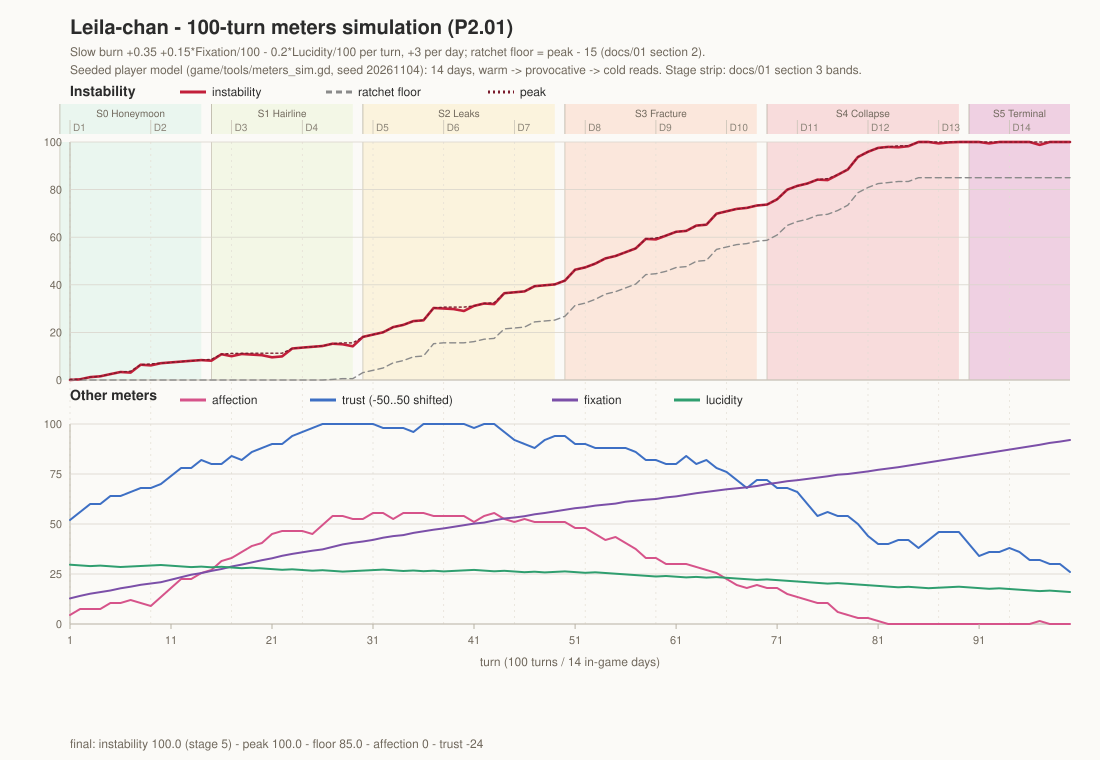
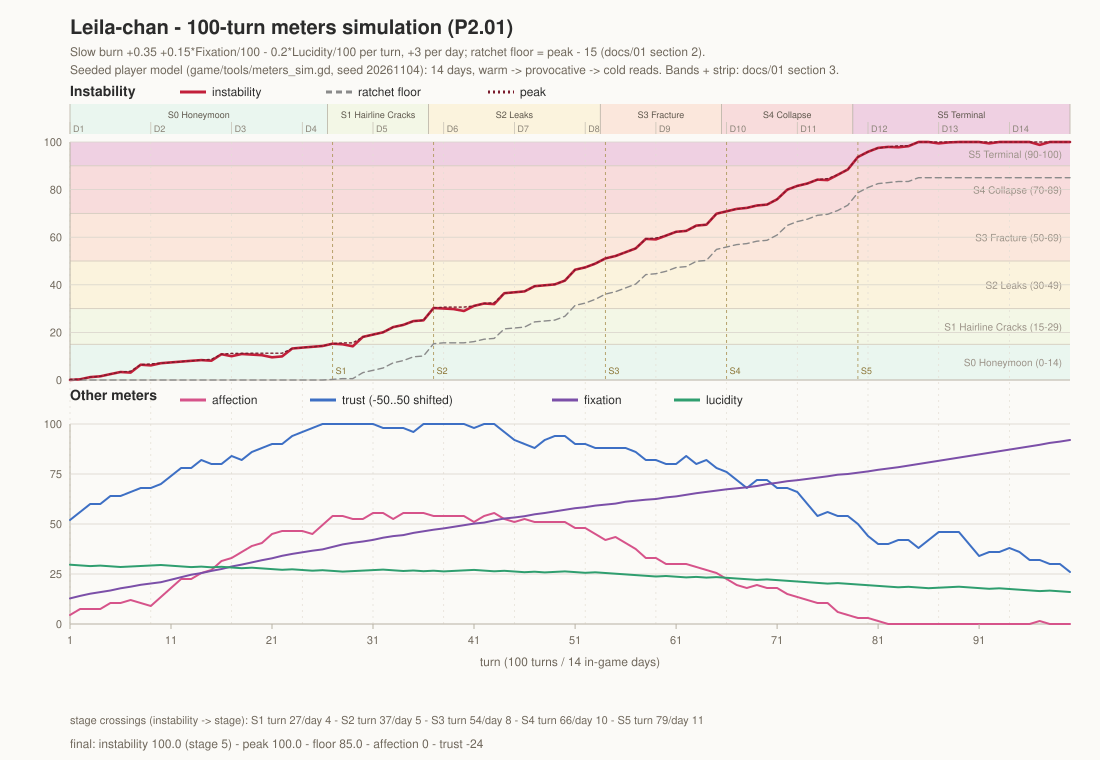
P2.01: draw the docs/01 section 3 stage bands on the instability axis (DES-1)
The bands are instability values, not turns: shade the Instability panel's
y axis with one full-width stripe per band, label each stripe with its range,
and turn the strip above the panel into the stage the CSV is actually in per
turn (labelled runs + day ticks). Stage crossings are marked and captioned
with their turn and day, so the artifact agrees with the CSV (S5 at turn 79,
day 11). test_meters.py now renders the plot and pins the band geometry and
the strip spans to the CSV.

diff --git a/tools/meters/plot.py b/tools/meters/plot.py
@@ -8,9 +8,15 @@ plain text and diffable, and the PNG is a convenience render of the same file.
     python3 tools/meters/plot.py production/handoffs/media/P2.01/meters_curve.csv \
         production/handoffs/media/P2.01/meters_curve.svg
 
-Panel 1: Instability with the docs/01 §2 ratchet floor (peak - 15) and the peak,
-over the docs/01 §3 stage bands. Panel 2: Affection, Trust (mapped from its
--50..+50 range), Fixation and Lucidity.
+Axis meanings: the x axis is turns; the Instability panel's y axis is the meter
+value. The docs/01 §3 stage bands are instability ranges, so they shade that
+panel's y axis (a horizontal stripe per band, labelled with its range), and the
+strip above it is the stage the CSV is actually in on each turn. Stage
+crossings are marked with their turn and in-game day, read from the CSV.
+
+Panel 1: Instability with the docs/01 §2 ratchet floor (peak - 15) and the peak.
+Panel 2: Affection, Trust (mapped from its -50..+50 range), Fixation and
+Lucidity.
 """
 
 from __future__ import annotations
@@ -36,9 +42,11 @@ BG = "#fbfaf7"
 INK = "#2b2b2b"
 GRID = "#d9d5cc"
 
+## docs/01 §3, verbatim: (lo, hi, name, fill). The numbers are Instability
+## values, never turns — the Instability panel's y axis carries them.
 STAGES = [
     (0, 14, "S0 Honeymoon", "#eaf6ef"),
-    (15, 29, "S1 Hairline", "#f3f7e6"),
+    (15, 29, "S1 Hairline Cracks", "#f3f7e6"),
     (30, 49, "S2 Leaks", "#fbf3dd"),
     (50, 69, "S3 Fracture", "#fbe7dc"),
     (70, 89, "S4 Collapse", "#f8dcdc"),
@@ -116,28 +124,69 @@ def y_for(value: float, top: float, height: float, lo: float = 0.0, hi: float = 
     return top + height - (value - lo) / (hi - lo) * height
 
 
-def draw_stage_bands(svg: Svg, rows: list[dict], x, top: float, height: float) -> None:
-    turns = [num(r, "turn") for r in rows]
-    for lo, hi, _label, fill in STAGES:
-        xs = x(lo)
-        xe = x(min(hi, max(turns)))
-        if xe <= xs:
-            continue
-        svg.rect(xs, top, xe - xs, height, fill)
-        svg.line(xs, top, xs, top + height, "#c9c3b6", 0.8)
+def draw_stage_bands(svg: Svg, top: float, height: float) -> None:
+    """docs/01 §3 bands shade the Instability axis: one horizontal stripe per range.
+
+    The band edges are meter values, so each stripe spans the full turn width and
+    the curve crossing a stripe edge is exactly the stage change the CSV records.
+    """
+    for index, (lo, hi, label, fill) in enumerate(STAGES):
+        # The doc table's bands are integer ranges (0-14, 15-29, ...), so the
+        # next band's floor is this band's ceiling on the continuous axis.
+        ceiling = STAGES[index + 1][0] if index + 1 < len(STAGES) else hi
+        y_hi = y_for(ceiling, top, height)
+        y_lo = y_for(lo, top, height)
+        svg.rect(LEFT, y_hi, RIGHT - LEFT, y_lo - y_hi, fill)
+        if lo > 0:
+            svg.line(LEFT, y_lo, RIGHT, y_lo, "#d5cdbe", 0.9)
+        svg.text(
+            RIGHT - 8, (y_hi + y_lo) / 2 + 4, f"{label} ({lo}-{hi})", 10, "end", "#9a9186"
+        )
+
+
+def stage_runs(rows: list[dict]) -> list[tuple[int, int, int]]:
+    """Contiguous (first_turn, last_turn, stage) runs, read from the CSV's stage column."""
+    runs: list[tuple[int, int, int]] = []
+    for row in rows:
+        turn, stage = int(num(row, "turn")), int(num(row, "stage"))
+        if runs and runs[-1][2] == stage:
+            runs[-1] = (runs[-1][0], turn, stage)
+        else:
+            runs.append((turn, turn, stage))
+    return runs
+
+
+def stage_crossings(rows: list[dict]) -> list[tuple[int, int, int]]:
+    """Turns where the CSV stage changes: (turn, day, new_stage)."""
+    crossings: list[tuple[int, int, int]] = []
+    previous = int(num(rows[0], "stage"))
+    for row in rows[1:]:
+        stage = int(num(row, "stage"))
+        if stage != previous:
+            crossings.append((int(num(row, "turn")), int(num(row, "day")), stage))
+            previous = stage
+    return crossings
 
 
 def draw_stage_strip(svg: Svg, rows: list[dict], x) -> None:
-    """docs/01 section 3 bands as a labelled strip so the lines never cross a label."""
-    turns = [num(r, "turn") for r in rows]
-    for lo, hi, label, fill in STAGES:
-        xs = x(lo)
-        xe = x(min(hi, max(turns)))
+    """The stage the run is actually in per turn, so the strip answers "when".
+
+    Each segment is one contiguous run of the CSV's `stage` column, labelled with
+    the docs/01 §3 name; the in-game day ticks under it are turn-based too.
+    """
+    for start, end, stage in stage_runs(rows):
+        xs = max(LEFT, x(start - 0.5))
+        xe = min(RIGHT, x(end + 0.5))
         if xe <= xs:
             continue
+        _lo, _hi, label, fill = STAGES[stage]
         svg.rect(xs, STRIP_TOP, xe - xs, STRIP_HEIGHT, fill)
         svg.line(xs, STRIP_TOP, xs, STRIP_TOP + STRIP_HEIGHT, "#b8b1a4", 0.8)
-        svg.text((xs + xe) / 2, STRIP_TOP + 13, label, 10, "middle", "#6f675b")
+        if xe - xs >= 84:
+            svg.text((xs + xe) / 2, STRIP_TOP + 14, label, 9, "middle", "#5d564b")
+        elif xe - xs >= 34:
+            svg.text((xs + xe) / 2, STRIP_TOP + 14, f"S{stage}", 9, "middle", "#5d564b")
+    svg.line(RIGHT, STRIP_TOP, RIGHT, STRIP_TOP + STRIP_HEIGHT, "#b8b1a4", 0.8)
     seen: set[int] = set()
     for row in rows:
         day = int(num(row, "day"))
@@ -145,8 +194,8 @@ def draw_stage_strip(svg: Svg, rows: list[dict], x) -> None:
             continue
         seen.add(day)
         px = x(num(row, "turn"))
-        svg.line(px, STRIP_TOP + 16, px, STRIP_TOP + STRIP_HEIGHT, "#c9c3b6", 0.8)
-        svg.text(px + 3, STRIP_TOP + 27, f"D{day}", 10, "start", "#8a8377")
+        svg.line(px, STRIP_TOP + 18, px, STRIP_TOP + STRIP_HEIGHT, "#c9c3b6", 0.8)
+        svg.text(px + 3, STRIP_TOP + 28, f"D{day}", 9, "start", "#8a8377")
 
 
 def draw_day_lines(svg: Svg, rows: list[dict], x, top: float, bottom: float) -> None:
@@ -196,13 +245,19 @@ def plot(rows: list[dict], out: Path) -> None:
     svg.text(
         LEFT, 74,
         "Seeded player model (game/tools/meters_sim.gd, seed 20261104): 14 days, "
-        "warm -> provocative -> cold reads.  Stage strip: docs/01 section 3 bands.",
+        "warm -> provocative -> cold reads.  Bands + strip: docs/01 section 3.",
         12, "start", "#6f675b",
     )
-    draw_stage_bands(svg, rows, x, TOP1, HEIGHT1)
+    draw_stage_bands(svg, TOP1, HEIGHT1)
     draw_stage_strip(svg, rows, x)
     draw_day_lines(svg, rows, x, TOP1, TOP2 + HEIGHT2)
     draw_axes(svg, rows, x, TOP1, HEIGHT1, 0, 100, [0, 20, 40, 60, 80, 100])
+
+    crossings = stage_crossings(rows)
+    for turn, _day, stage in crossings:
+        px = x(turn)
+        svg.line(px, TOP1, px, TOP1 + HEIGHT1, "#b09a5f", 0.9, "3 3")
+        svg.text(px + 3, TOP1 + HEIGHT1 - 6, f"S{stage}", 9, "start", "#8a7434")
 
     for key, color, width, dash in (
         ("instability", "#c21f3a", 2.6, ""),
@@ -262,6 +317,14 @@ def plot(rows: list[dict], out: Path) -> None:
     svg.text((LEFT + RIGHT) / 2, TOP2 + HEIGHT2 + 42, "turn (100 turns / 14 in-game days)",
              12, "middle", "#6f675b")
 
+    if crossings:
+        svg.text(
+            LEFT, HEIGHT - 36,
+            "stage crossings (instability -> stage): "
+            + " - ".join(f"S{stage} turn {turn}/day {day}" for turn, day, stage in crossings),
+            11, "start", "#6f675b",
+        )
+
     last_row = rows[-1]
     svg.text(
         LEFT, HEIGHT - 12,
@@ -301,6 +364,8 @@ def main(argv: list[str]) -> int:
     for row in rows:
         if num(row, "instability") < num(row, "instability_floor") - 1e-6:
             raise SystemExit(f"plot: ratchet violated at turn {row['turn']}")
+        if not 0 <= int(num(row, "stage")) < len(STAGES):
+            raise SystemExit(f"plot: stage out of range at turn {row['turn']}")
     plot(rows, target)
     print(f"plot: wrote {target} ({len(rows)} turns)")
     to_png(target)

diff --git a/tests/test_meters.py b/tests/test_meters.py
@@ -6,12 +6,15 @@ Godot build: the tuning table and production/handoffs/media/P2.01/meters_curve.*
 """
 
 import csv
+import importlib.util
 import json
+import re
 from pathlib import Path
 
 ROOT = Path(__file__).resolve().parent.parent
 METERS = json.loads((ROOT / "game" / "data" / "meters.json").read_text(encoding="utf-8"))
 CURVE = ROOT / "production" / "handoffs" / "media" / "P2.01" / "meters_curve.csv"
+PLOT_SCRIPT = ROOT / "tools" / "meters" / "plot.py"
 
 # docs/01_GAME_DESIGN.md §2 and docs/02_DIRECTOR_PROTOCOL.md §1.1, verbatim.
 DOC_RATCHET_DROP = 15.0
@@ -95,3 +98,70 @@ def test_curve_plot_artifacts_exist() -> None:
     assert svg.exists() and svg.stat().st_size > 4000
     assert "<svg" in svg.read_text(encoding="utf-8")
     assert png.exists() and png.stat().st_size > 4000
+
+
+# docs/01_GAME_DESIGN.md §3 thresholds, verbatim (0-14, 15-29, 30-49, 50-69,
+# 70-89, 90-100): on the continuous Instability axis each band runs from its
+# floor to the next band's floor.
+DOC_STAGE_EDGES = [(0, 15), (15, 30), (30, 50), (50, 70), (70, 90), (90, 100)]
+
+
+def _load_plot():
+    spec = importlib.util.spec_from_file_location("meters_plot", PLOT_SCRIPT)
+    assert spec is not None and spec.loader is not None
+    module = importlib.util.module_from_spec(spec)
+    spec.loader.exec_module(module)
+    return module
+
+
+def _svg_rects(text: str) -> list[tuple[float, float, float, float]]:
+    found = re.findall(
+        r'<rect x="([0-9.]+)" y="([0-9.]+)" width="([0-9.]+)" height="([0-9.]+)"', text
+    )
+    return [(float(x), float(y), float(w), float(h)) for x, y, w, h in found]
+
+
+def _stage_runs(rows: list[dict[str, str]]) -> list[tuple[int, int, int]]:
+    runs: list[tuple[int, int, int]] = []
+    for row in rows:
+        turn, stage = int(row["turn"]), int(row["stage"])
+        if runs and runs[-1][2] == stage:
+            runs[-1] = (runs[-1][0], turn, stage)
+        else:
+            runs.append((turn, turn, stage))
+    return runs
+
+
+def test_plot_puts_the_stage_bands_on_the_instability_axis(tmp_path: Path) -> None:
+    """docs/01 §3 bands are Instability values, never turns (P2.01 DES-1).
+
+    The Instability panel's y axis is the meter, so each band is a full-width
+    stripe whose height is the band's share of 0-100; and the strip above it
+    spans the turns the CSV is actually in that stage.
+    """
+    plot = _load_plot()
+    out = tmp_path / "meters_curve.svg"
+    plot.plot(_curve_rows(), out)
+    rects = _svg_rects(out.read_text(encoding="utf-8"))
+
+    bands = sorted(
+        (r for r in rects if r[0] == plot.LEFT and r[2] == plot.RIGHT - plot.LEFT),
+        key=lambda rect: -rect[1],
+    )
+    assert len(bands) == len(DOC_STAGE_EDGES), "one full-width y stripe per doc band"
+    for (x, y, width, height), (lo, hi) in zip(bands, DOC_STAGE_EDGES):
+        assert x == plot.LEFT and width == plot.RIGHT - plot.LEFT
+        assert abs(y - plot.y_for(hi, plot.TOP1, plot.HEIGHT1)) < 0.2, f"band {lo}-{hi} top"
+        assert abs(height - (hi - lo) / 100.0 * plot.HEIGHT1) < 0.2, f"band {lo}-{hi} height"
+
+    strip = [r for r in rects if r[1] == plot.STRIP_TOP and r[3] == plot.STRIP_HEIGHT]
+    runs = _stage_runs(_curve_rows())
+    assert len(strip) == len(runs), "one strip segment per CSV stage run"
+    for (_x, _y, width, _h), (first, last, _stage) in zip(strip, runs):
+        left = max(plot.LEFT, plot.x_for(first - 0.5, 1.0, 100.0))
+        right = min(plot.RIGHT, plot.x_for(last + 0.5, 1.0, 100.0))
+        assert abs(width - (right - left)) < 0.2, f"strip run {first}-{last} width"
+
+    caption = [line for line in out.read_text(encoding="utf-8").splitlines() if "turn 79/day 11" in line]
+    assert caption, "the plot must annotate the stage crossings with their turn and day"
+    assert "S5" in caption[0]
